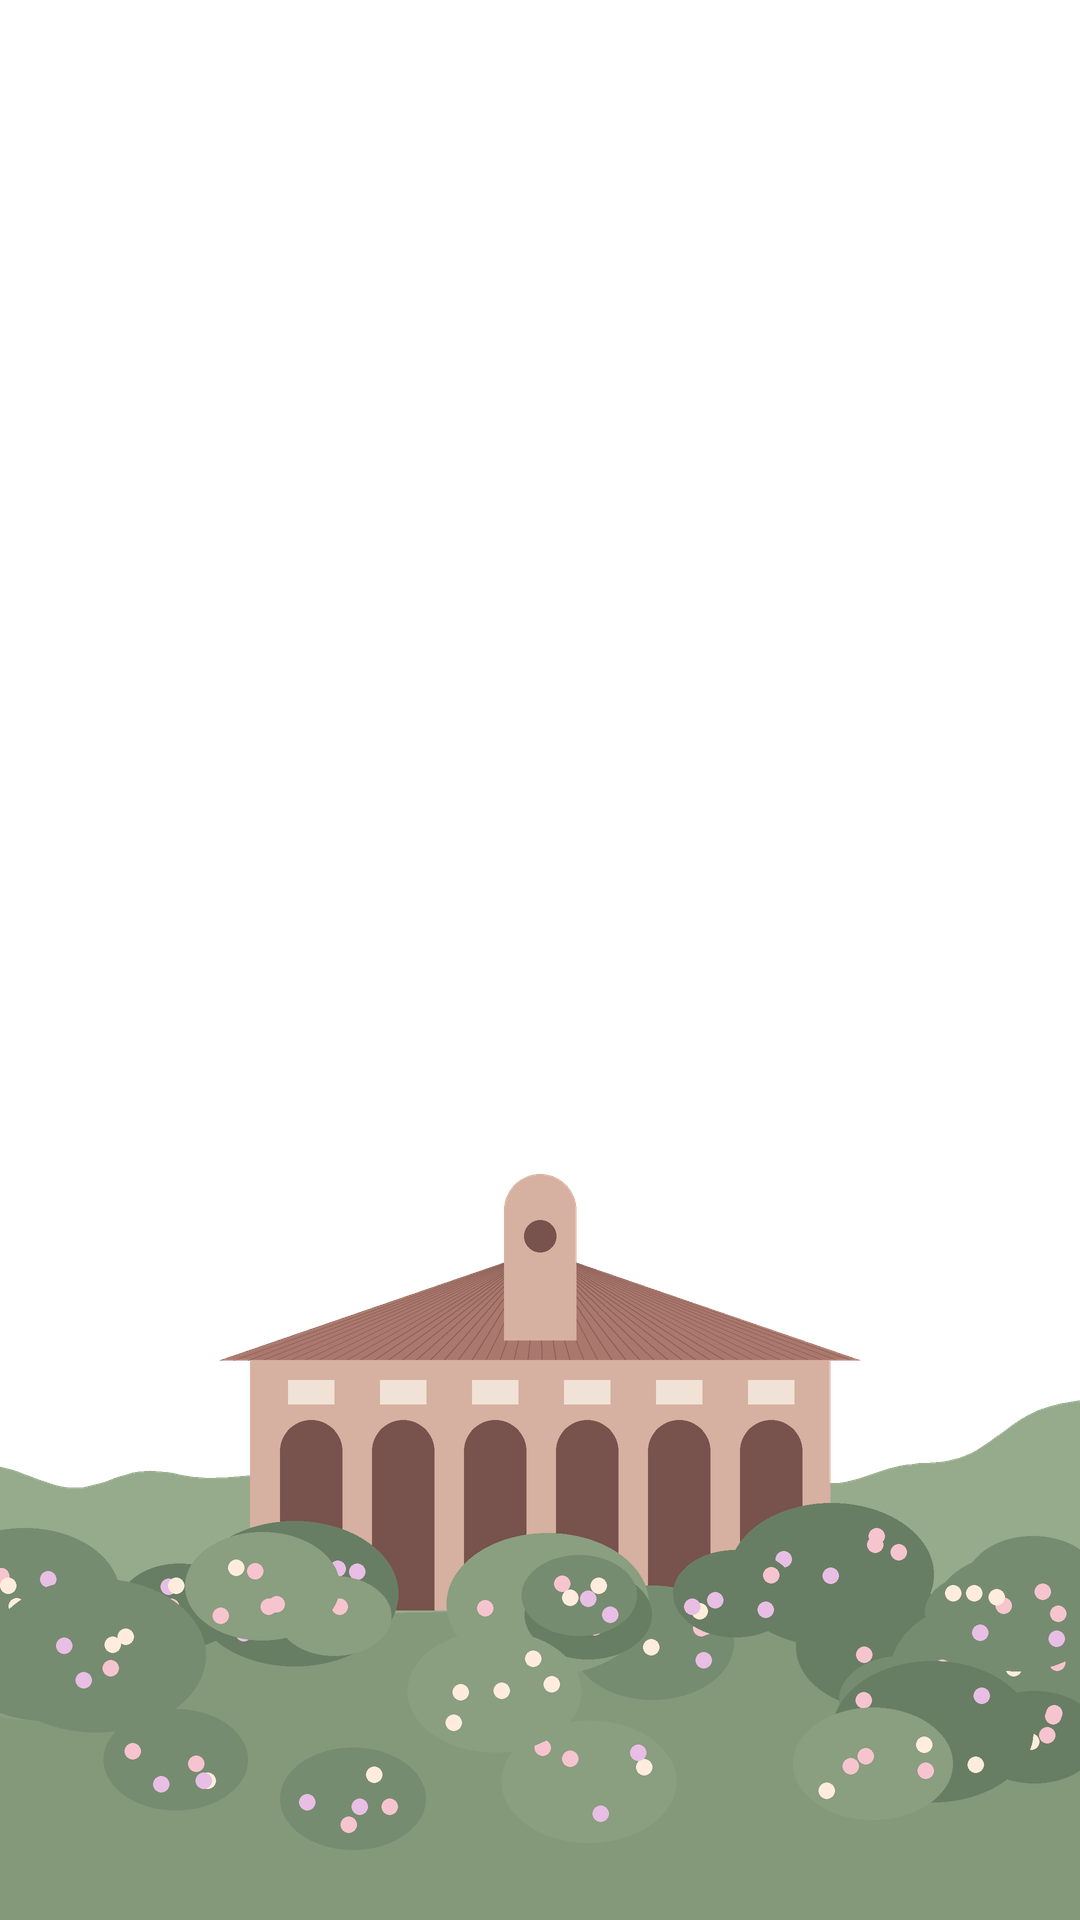
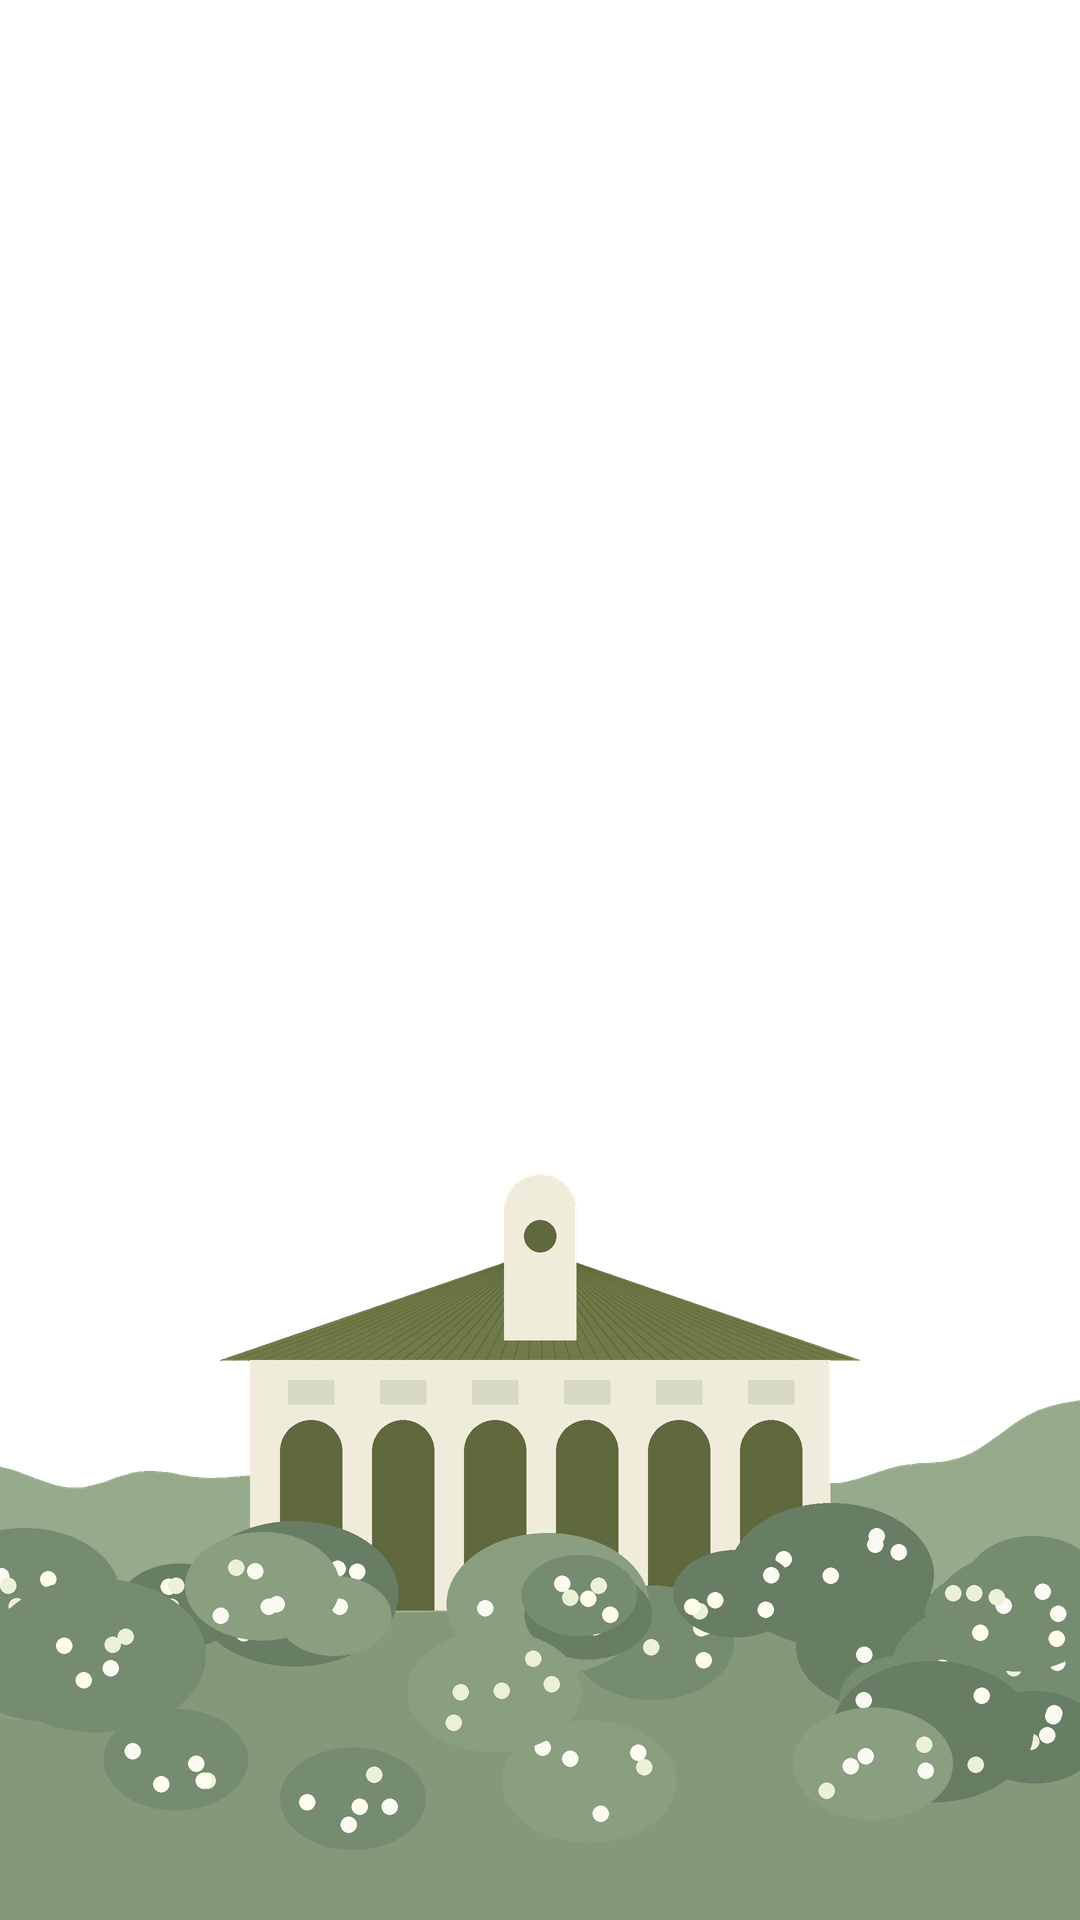
XV: todo en tonos verde oliva (portada, ilustraciones de ejemplo, paleta de vestimenta, cierre)
Claude-Session: https://claude.ai/code/session_0153kB2WikYqrVRW9fW3cgko

diff --git a/invitaciones/xv-valentina/index.html b/invitaciones/xv-valentina/index.html
@@ -11,8 +11,8 @@
 <style>
   :root{
     --olive-cream:#E6E8CF;
-    --serif:#8A5A5E;
-    --name:#9E3460;
+    --serif:#6E6A4E;
+    --name:#5E6B32;
     --gold:#C9A15A;
   }
   *{box-sizing:border-box;margin:0;padding:0}
@@ -296,9 +296,12 @@
 
   /* cierre con paisaje */
   .closing{position:relative;height:84cqw;overflow:hidden;display:flex;flex-direction:column;align-items:center;justify-content:center;color:#FFFDF6}
-  .closing .ly{position:absolute;inset:-4%;width:108%;height:108%;object-fit:cover}
-  .closing .veil{position:absolute;inset:0;background:linear-gradient(180deg,rgba(236,232,220,.25),rgba(120,130,90,.35))}
-  .closing > :not(img):not(.veil){position:relative;z-index:1}
+  .closing{background:linear-gradient(rgba(40,48,18,.22),rgba(40,48,18,.38)),var(--papel) center/cover}
+  .closing > :not(img){position:relative;z-index:1}
+  .cl-ramo{position:absolute;top:-6cqw;width:22cqw;height:auto;filter:drop-shadow(0 1cqw 1.4cqw rgba(0,0,0,.3))}
+  .cl-ramo.l{left:-4cqw;transform:rotate(-8deg)}
+  .cl-ramo.r{right:-4cqw;transform:scaleX(-1) rotate(-8deg)}
+  .cl-seal{position:relative;width:13cqw;margin-top:5cqw;filter:drop-shadow(0 .6cqw .8cqw rgba(0,0,0,.35))}
   .closing small{font-size:3.6cqw;letter-spacing:.2em;text-shadow:0 0 2cqw rgba(60,60,40,.5)}
   .closing .nm{font-family:"Cormorant Garamond",serif;font-size:8cqw;letter-spacing:.2em;padding-left:.2em;text-shadow:0 0 2cqw rgba(60,60,40,.5);position:relative}
   .closing .nm i{position:absolute;left:50%;top:50%;transform:translate(-50%,-50%);font-family:"Pinyon Script",cursive;font-style:normal;font-size:15cqw;letter-spacing:0;opacity:.55}
@@ -676,8 +679,8 @@ const CONFIG = window.CONFIG;   // los datos viven en config.js
   /* ---------- Invitación: render desde CONFIG ---------- */
   function renderInvitacion() {
     const E = CONFIG.evento, A = CONFIG.assetsPath, esc = x => String(x).replace(/[&<>"]/g, c => ({"&":"&amp;","<":"&lt;",">":"&gt;",'"':"&quot;"}[c]));
-    const paleta = E.paleta || [{ color: "#6E7B52", nombre: "Verde olivo" }, { color: "#C9A15A", nombre: "Dorado" }, { color: "#B9A6C9", nombre: "Lavanda" }, { color: "#E9D9C2", nombre: "Champaña" }, { color: "#6B3A4A", nombre: "Vino" }];
-    const reservado = E.reservado === undefined ? { color: "#E79AB2", nombre: "Rosa: reservado para la quinceañera" } : E.reservado;
+    const paleta = E.paleta || [{ color: "#5E6B32", nombre: "Verde olivo" }, { color: "#7B8A4B", nombre: "Oliva" }, { color: "#9DA77A", nombre: "Salvia" }, { color: "#B8BC8E", nombre: "Pistache" }, { color: "#DCD8C2", nombre: "Marfil" }];
+    const reservado = E.reservado === undefined ? null : E.reservado;
     // ---------- piezas gráficas (SVG generado: alcatraces, sello de corazón, perlas, íconos) ----------
     let uid = 0;
     const heart = () => `<img class="hseal gold" src="${A}sello_oro.png" alt="">`;
@@ -814,10 +817,10 @@ const CONFIG = window.CONFIG;   // los datos viven en config.js
       </section>
 
       <section class="closing">
-        <img class="ly" src="${A}e2_cielo.png" alt=""><img class="ly" src="${A}e2_montanas.png" alt=""><img class="ly" src="${A}e2_cascadas.png" alt=""><img class="ly" src="${A}e2_hacienda.png" alt="">
-        <div class="veil"></div>
+        <img class="cl-ramo l" src="${A}ramo_blanco.png" alt=""><img class="cl-ramo r" src="${A}ramo_blanco.png" alt="">
         <small>${esc(E.cierre)}</small>
         <div class="nm">${esc(CONFIG.quinceanera.toUpperCase())}<i>${esc(CONFIG.iniciales.join(""))}</i></div>
+        <img class="cl-seal" src="${A}sello_oro.png" alt="">
         <div class="inv-wm">${esc(CONFIG.marcaDeAgua)}</div>
       </section>`;
 

diff --git a/plantillas/xv/index.html b/plantillas/xv/index.html
@@ -11,8 +11,8 @@
 <style>
   :root{
     --olive-cream:#E6E8CF;
-    --serif:#8A5A5E;
-    --name:#9E3460;
+    --serif:#6E6A4E;
+    --name:#5E6B32;
     --gold:#C9A15A;
   }
   *{box-sizing:border-box;margin:0;padding:0}
@@ -296,9 +296,12 @@
 
   /* cierre con paisaje */
   .closing{position:relative;height:84cqw;overflow:hidden;display:flex;flex-direction:column;align-items:center;justify-content:center;color:#FFFDF6}
-  .closing .ly{position:absolute;inset:-4%;width:108%;height:108%;object-fit:cover}
-  .closing .veil{position:absolute;inset:0;background:linear-gradient(180deg,rgba(236,232,220,.25),rgba(120,130,90,.35))}
-  .closing > :not(img):not(.veil){position:relative;z-index:1}
+  .closing{background:linear-gradient(rgba(40,48,18,.22),rgba(40,48,18,.38)),var(--papel) center/cover}
+  .closing > :not(img){position:relative;z-index:1}
+  .cl-ramo{position:absolute;top:-6cqw;width:22cqw;height:auto;filter:drop-shadow(0 1cqw 1.4cqw rgba(0,0,0,.3))}
+  .cl-ramo.l{left:-4cqw;transform:rotate(-8deg)}
+  .cl-ramo.r{right:-4cqw;transform:scaleX(-1) rotate(-8deg)}
+  .cl-seal{position:relative;width:13cqw;margin-top:5cqw;filter:drop-shadow(0 .6cqw .8cqw rgba(0,0,0,.35))}
   .closing small{font-size:3.6cqw;letter-spacing:.2em;text-shadow:0 0 2cqw rgba(60,60,40,.5)}
   .closing .nm{font-family:"Cormorant Garamond",serif;font-size:8cqw;letter-spacing:.2em;padding-left:.2em;text-shadow:0 0 2cqw rgba(60,60,40,.5);position:relative}
   .closing .nm i{position:absolute;left:50%;top:50%;transform:translate(-50%,-50%);font-family:"Pinyon Script",cursive;font-style:normal;font-size:15cqw;letter-spacing:0;opacity:.55}
@@ -676,8 +679,8 @@ const CONFIG = window.CONFIG;   // los datos viven en config.js
   /* ---------- Invitación: render desde CONFIG ---------- */
   function renderInvitacion() {
     const E = CONFIG.evento, A = CONFIG.assetsPath, esc = x => String(x).replace(/[&<>"]/g, c => ({"&":"&amp;","<":"&lt;",">":"&gt;",'"':"&quot;"}[c]));
-    const paleta = E.paleta || [{ color: "#6E7B52", nombre: "Verde olivo" }, { color: "#C9A15A", nombre: "Dorado" }, { color: "#B9A6C9", nombre: "Lavanda" }, { color: "#E9D9C2", nombre: "Champaña" }, { color: "#6B3A4A", nombre: "Vino" }];
-    const reservado = E.reservado === undefined ? { color: "#E79AB2", nombre: "Rosa: reservado para la quinceañera" } : E.reservado;
+    const paleta = E.paleta || [{ color: "#5E6B32", nombre: "Verde olivo" }, { color: "#7B8A4B", nombre: "Oliva" }, { color: "#9DA77A", nombre: "Salvia" }, { color: "#B8BC8E", nombre: "Pistache" }, { color: "#DCD8C2", nombre: "Marfil" }];
+    const reservado = E.reservado === undefined ? null : E.reservado;
     // ---------- piezas gráficas (SVG generado: alcatraces, sello de corazón, perlas, íconos) ----------
     let uid = 0;
     const heart = () => `<img class="hseal gold" src="${A}sello_oro.png" alt="">`;
@@ -814,10 +817,10 @@ const CONFIG = window.CONFIG;   // los datos viven en config.js
       </section>
 
       <section class="closing">
-        <img class="ly" src="${A}e2_cielo.png" alt=""><img class="ly" src="${A}e2_montanas.png" alt=""><img class="ly" src="${A}e2_cascadas.png" alt=""><img class="ly" src="${A}e2_hacienda.png" alt="">
-        <div class="veil"></div>
+        <img class="cl-ramo l" src="${A}ramo_blanco.png" alt=""><img class="cl-ramo r" src="${A}ramo_blanco.png" alt="">
         <small>${esc(E.cierre)}</small>
         <div class="nm">${esc(CONFIG.quinceanera.toUpperCase())}<i>${esc(CONFIG.iniciales.join(""))}</i></div>
+        <img class="cl-seal" src="${A}sello_oro.png" alt="">
         <div class="inv-wm">${esc(CONFIG.marcaDeAgua)}</div>
       </section>`;
 

diff --git a/invitaciones/xv-valentina/config.js b/invitaciones/xv-valentina/config.js
@@ -28,16 +28,16 @@ window.CONFIG = {
                  mapa: "https://maps.google.com/?q=Hacienda+Los+Arcos" },
     itinerario: [["19:00", "Misa"], ["20:30", "Recepción"], ["21:15", "Vals"], ["22:00", "Cena"], ["23:00", "¡A bailar!"]],
     vestimenta: "Formal",
-    vestimentaNota: "Te sugerimos estos tonos para acompañarme en mi gran día.",
+    vestimentaNota: "Te sugerimos tonos verde oliva y neutros para acompañarme en mi gran día.",
     // Colores sugeridos para los invitados (se tocan y tiñen el atuendo de ejemplo)
     paleta: [
-      { color: "#6E7B52", nombre: "Verde olivo" },
-      { color: "#C9A15A", nombre: "Dorado" },
-      { color: "#B9A6C9", nombre: "Lavanda" },
-      { color: "#E9D9C2", nombre: "Champaña" },
-      { color: "#6B3A4A", nombre: "Vino" }
+      { color: "#5E6B32", nombre: "Verde olivo" },
+      { color: "#7B8A4B", nombre: "Oliva" },
+      { color: "#9DA77A", nombre: "Salvia" },
+      { color: "#B8BC8E", nombre: "Pistache" },
+      { color: "#DCD8C2", nombre: "Marfil" }
     ],
-    reservado: { color: "#E79AB2", nombre: "Rosa: reservado para la quinceañera" },   // null si no hay color reservado
+    reservado: null,                // p. ej. { color: "#5E6B32", nombre: "Verde olivo: reservado para la quinceañera" }
     regalos: "Tu presencia es mi mejor regalo. Si deseas obsequiarme algo, tendremos lluvia de sobres.",
     rsvpWhatsapp: "5210000000000",            // número con lada, sin + ni espacios
     rsvpFecha: "1 de marzo de 2027",

diff --git a/plantillas/xv/config.js b/plantillas/xv/config.js
@@ -28,16 +28,16 @@ window.CONFIG = {
                  mapa: "https://maps.google.com/?q=Hacienda+Los+Arcos" },
     itinerario: [["19:00", "Misa"], ["20:30", "Recepción"], ["21:15", "Vals"], ["22:00", "Cena"], ["23:00", "¡A bailar!"]],
     vestimenta: "Formal",
-    vestimentaNota: "Te sugerimos estos tonos para acompañarme en mi gran día.",
+    vestimentaNota: "Te sugerimos tonos verde oliva y neutros para acompañarme en mi gran día.",
     // Colores sugeridos para los invitados (se tocan y tiñen el atuendo de ejemplo)
     paleta: [
-      { color: "#6E7B52", nombre: "Verde olivo" },
-      { color: "#C9A15A", nombre: "Dorado" },
-      { color: "#B9A6C9", nombre: "Lavanda" },
-      { color: "#E9D9C2", nombre: "Champaña" },
-      { color: "#6B3A4A", nombre: "Vino" }
+      { color: "#5E6B32", nombre: "Verde olivo" },
+      { color: "#7B8A4B", nombre: "Oliva" },
+      { color: "#9DA77A", nombre: "Salvia" },
+      { color: "#B8BC8E", nombre: "Pistache" },
+      { color: "#DCD8C2", nombre: "Marfil" }
     ],
-    reservado: { color: "#E79AB2", nombre: "Rosa: reservado para la quinceañera" },   // null si no hay color reservado
+    reservado: null,                // p. ej. { color: "#5E6B32", nombre: "Verde olivo: reservado para la quinceañera" }
     regalos: "Tu presencia es mi mejor regalo. Si deseas obsequiarme algo, tendremos lluvia de sobres.",
     rsvpWhatsapp: "5210000000000",            // número con lada, sin + ni espacios
     rsvpFecha: "1 de marzo de 2027",
